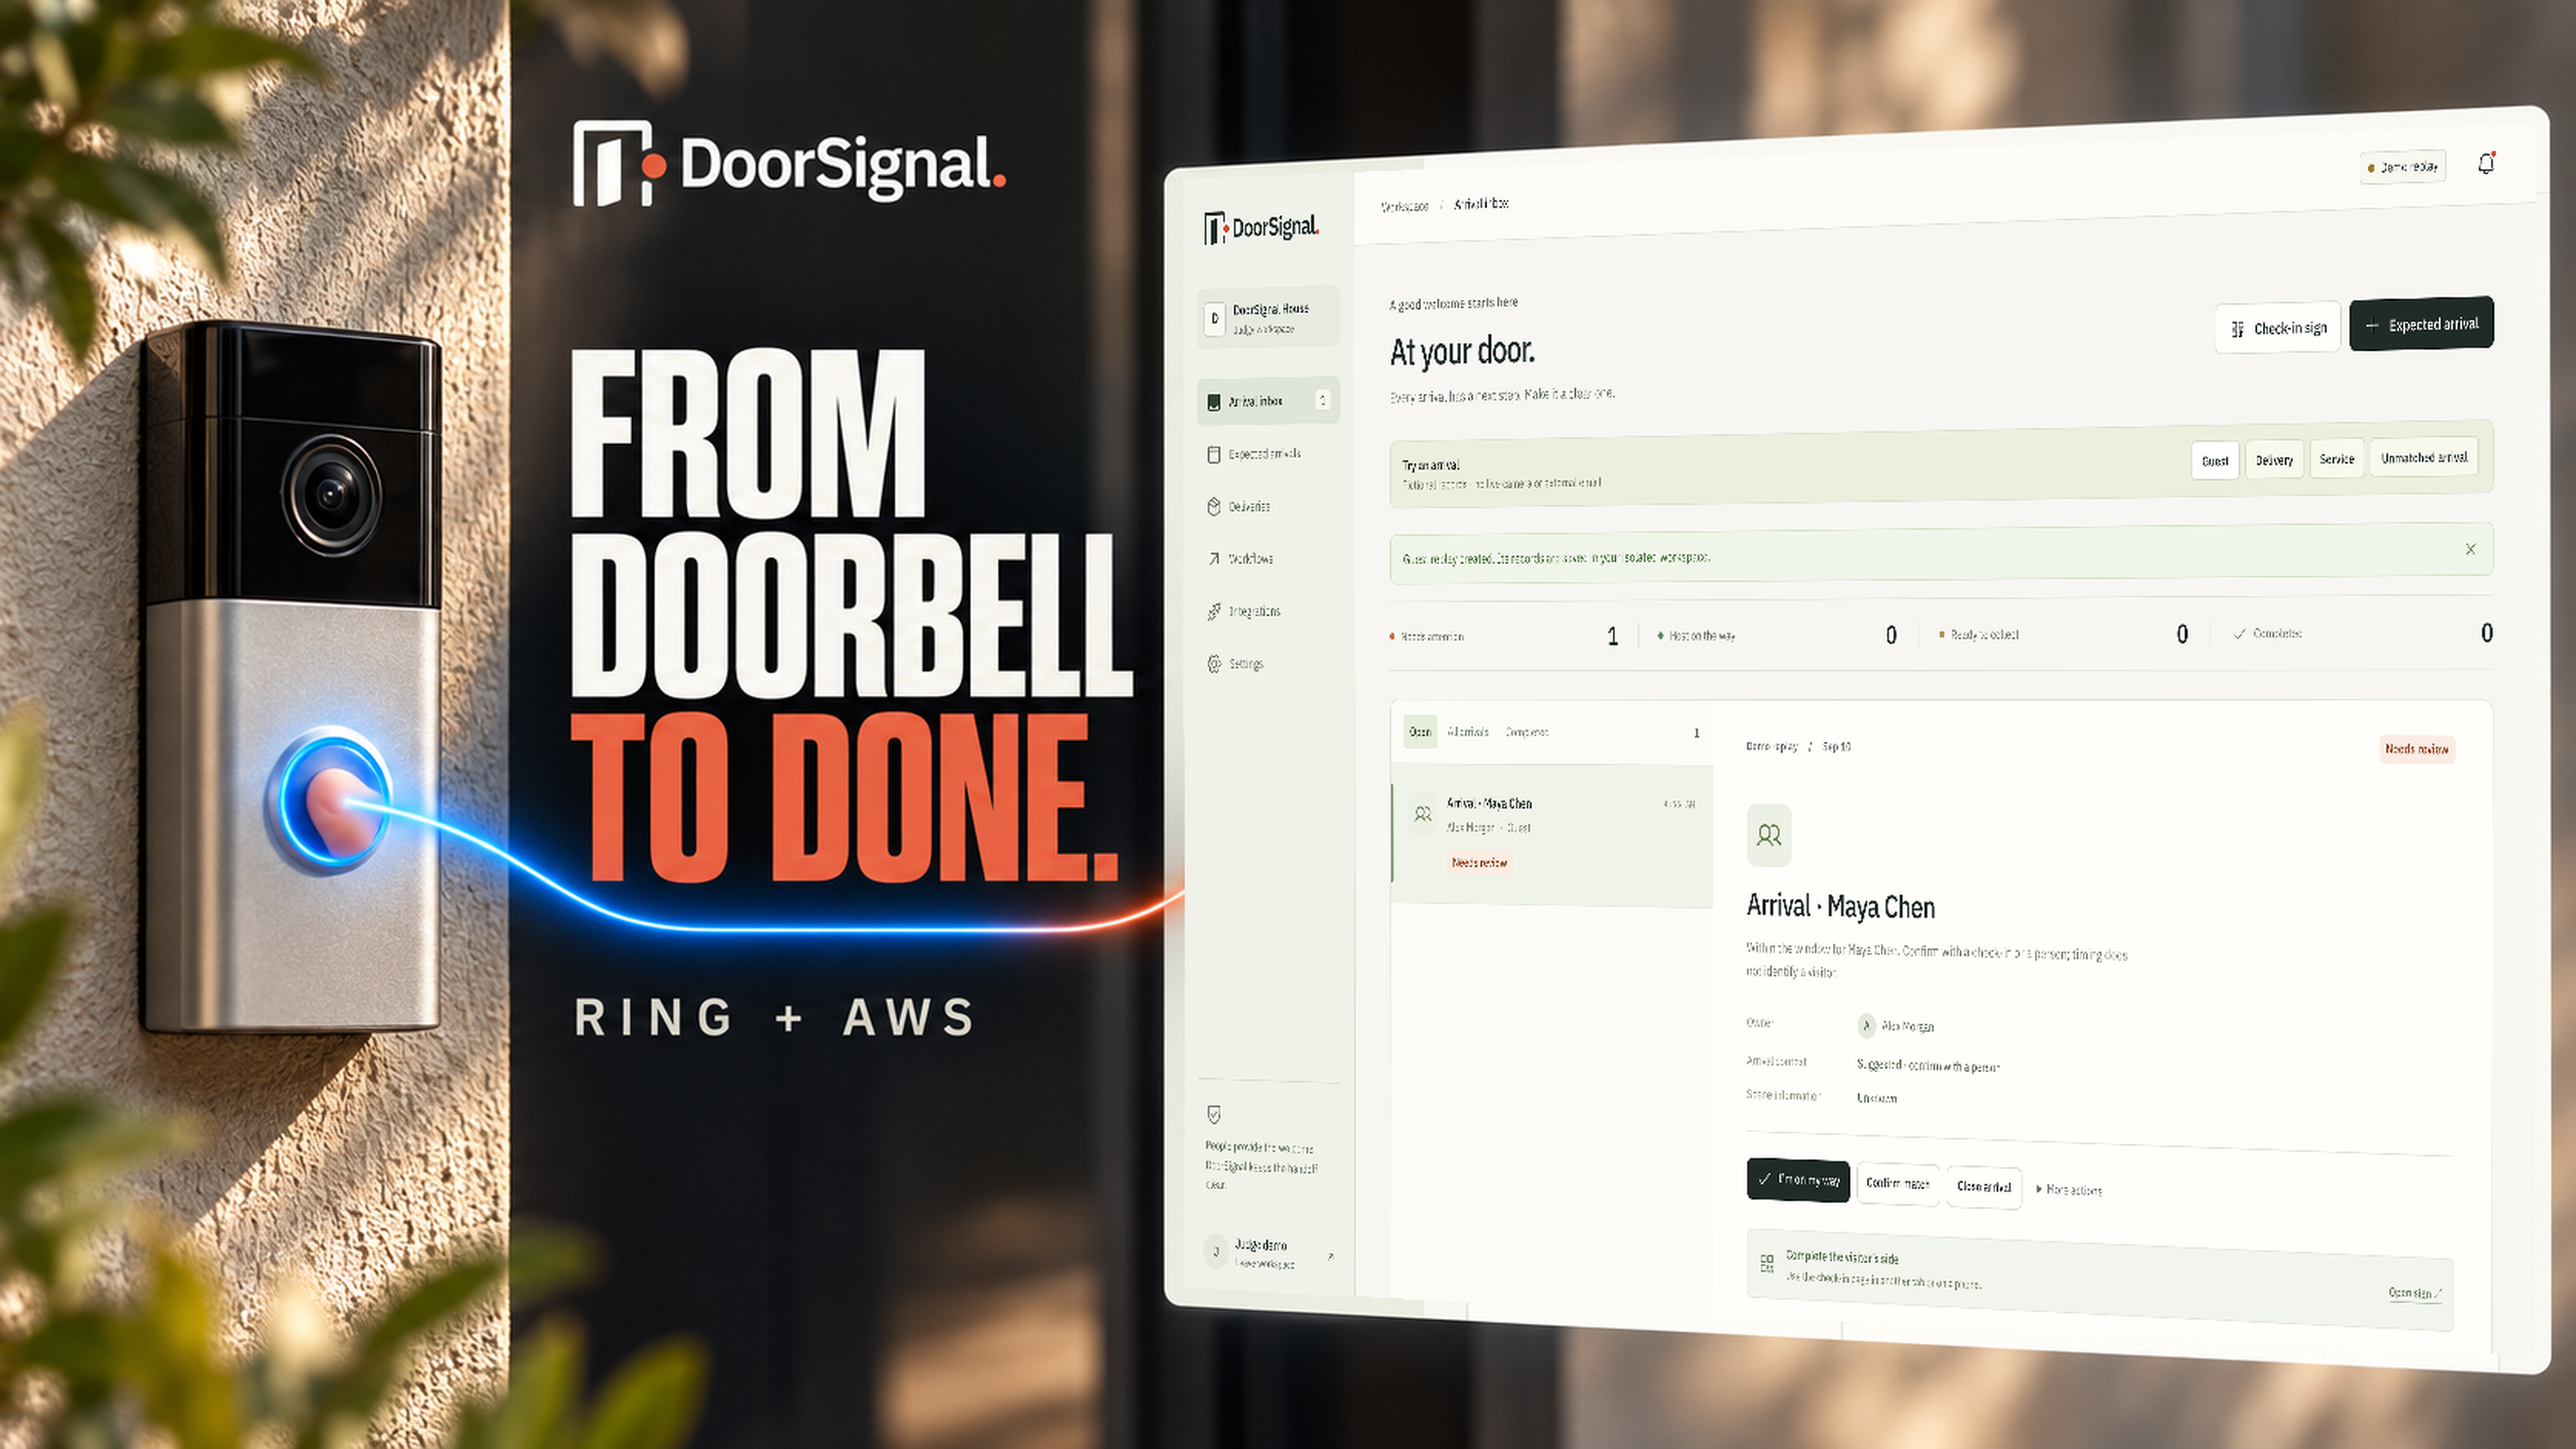
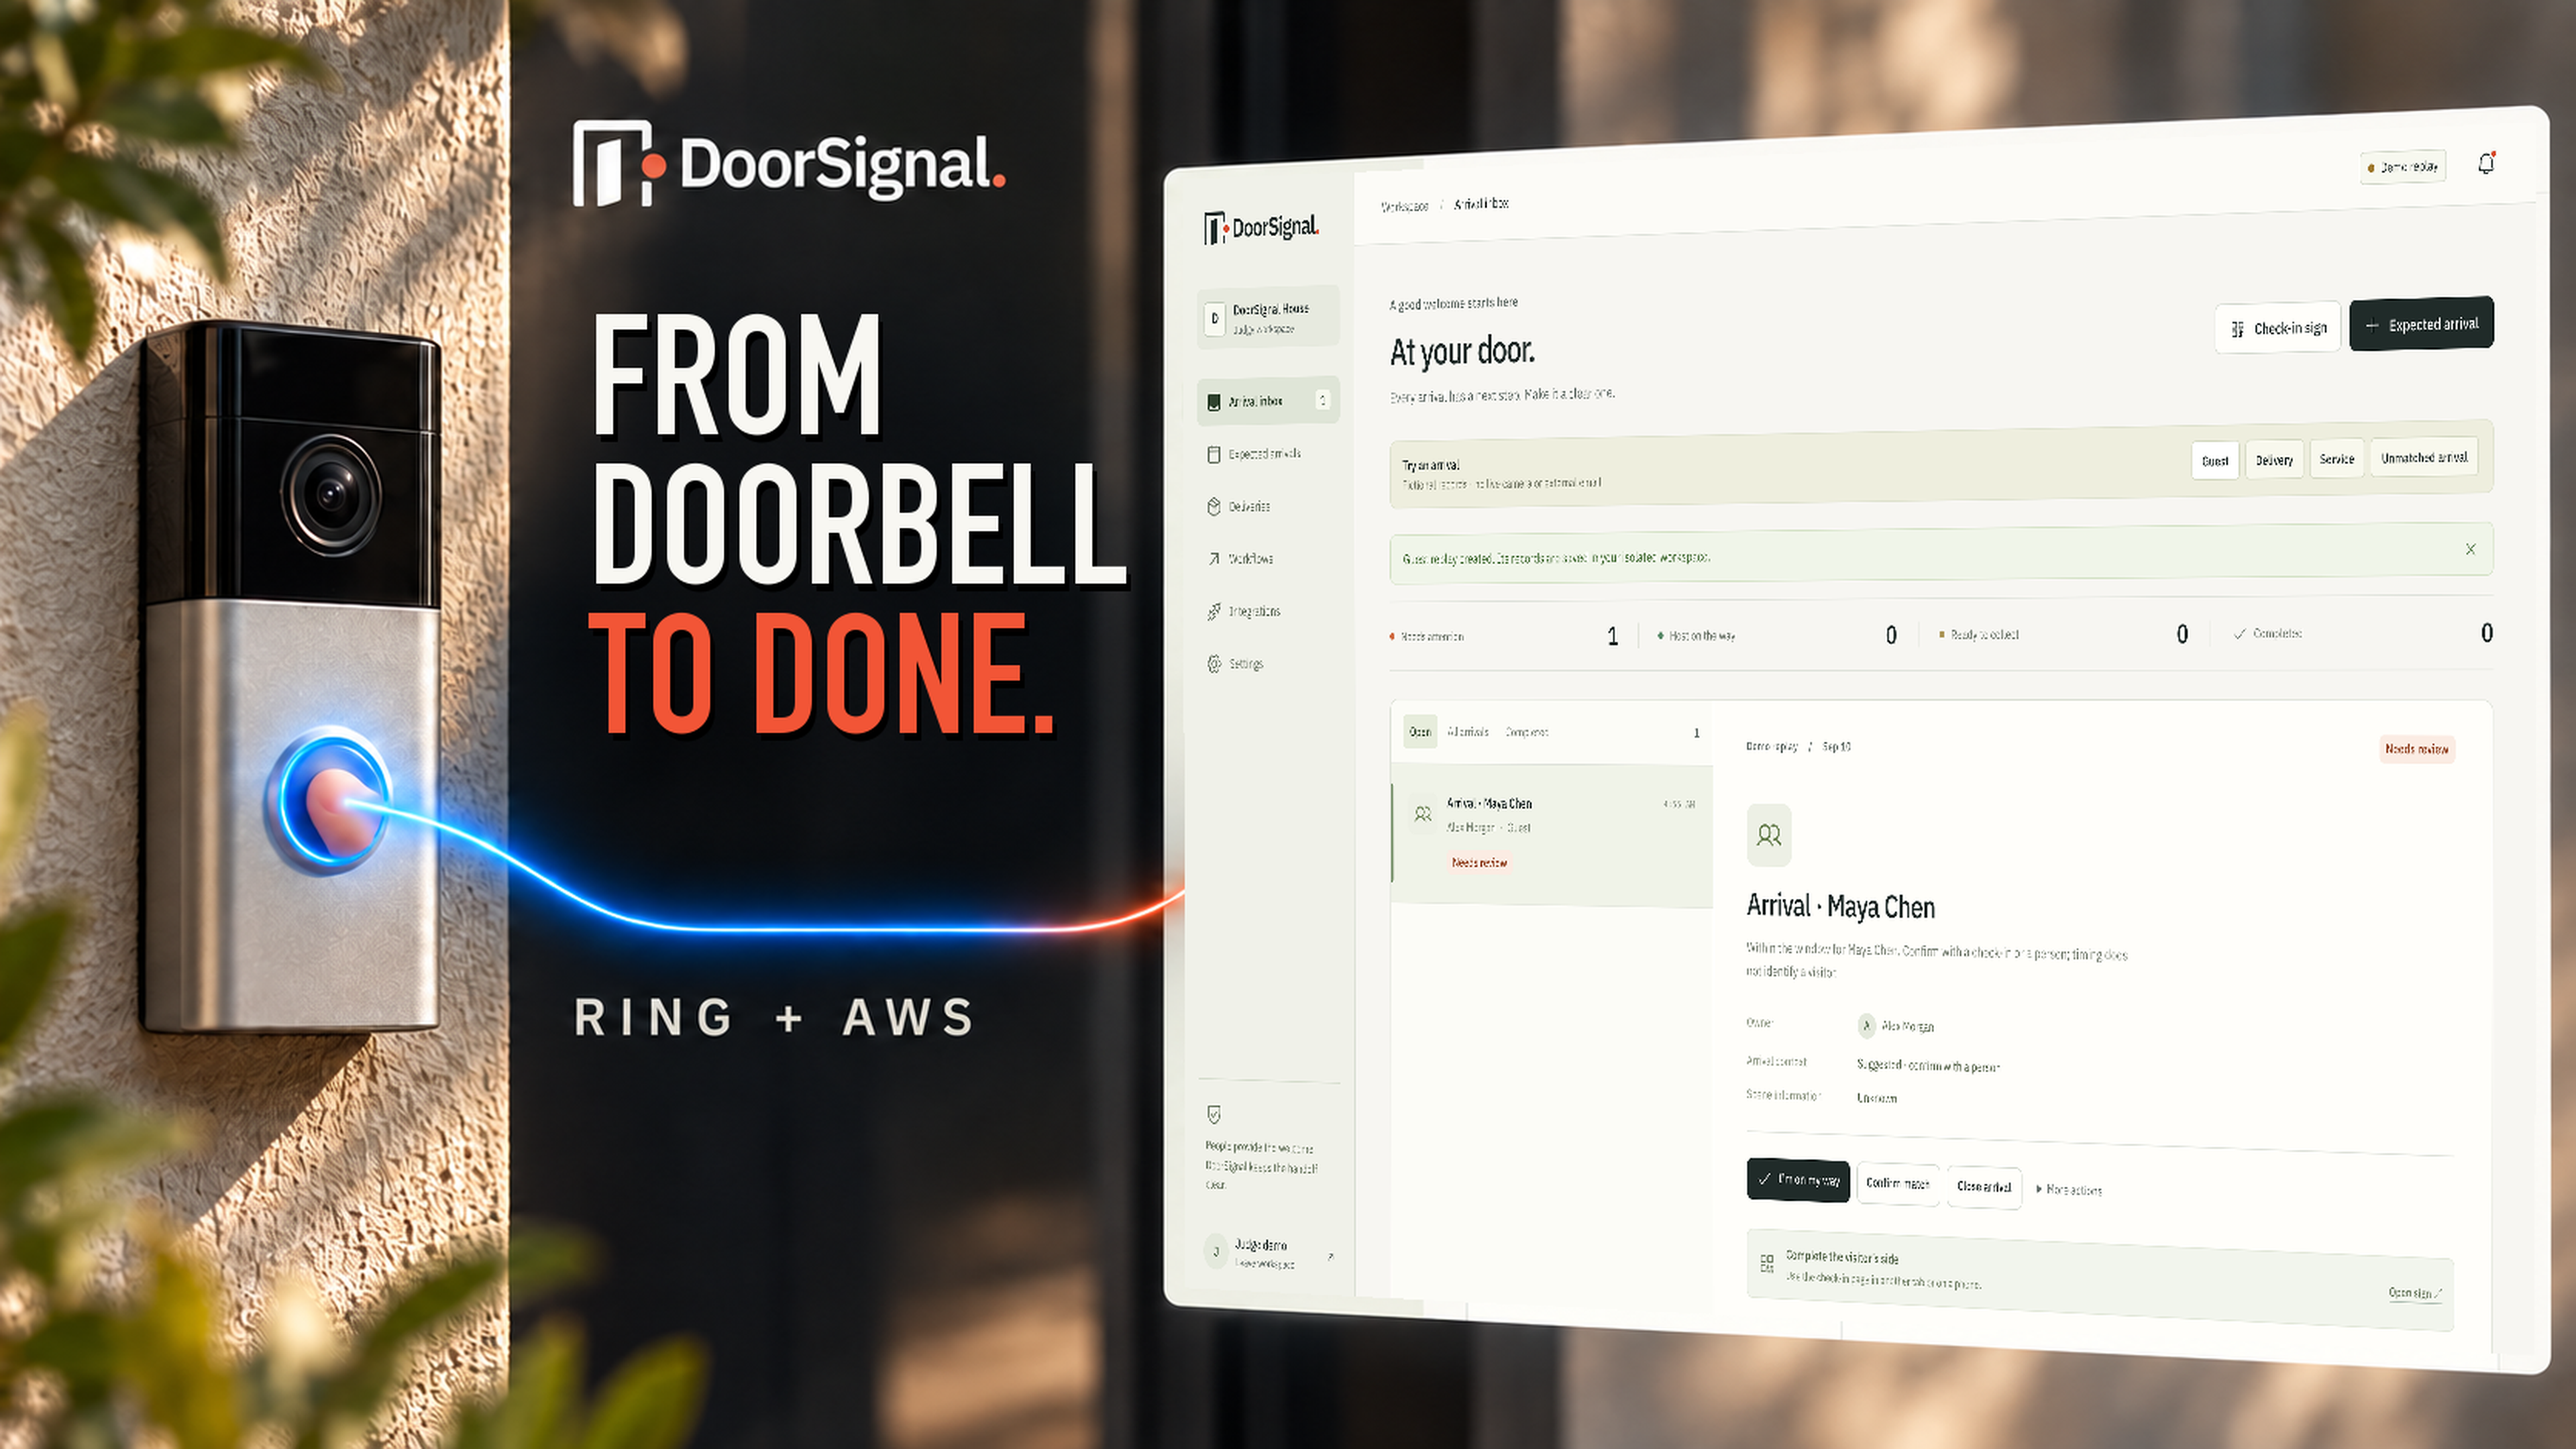
Refine Ring-centered submission artwork

diff --git a/scripts/compose_submission_images.py b/scripts/compose_submission_images.py
@@ -4,7 +4,7 @@
 from pathlib import Path
 
 import numpy as np
-from PIL import Image, ImageDraw
+from PIL import Image, ImageDraw, ImageFont
 
 
 ROOT = Path(__file__).resolve().parents[1]
@@ -24,7 +24,31 @@ def perspective_coefficients(destination, source):
     return np.linalg.solve(np.asarray(matrix, dtype=float), np.asarray(values, dtype=float))
 
 
-def replace_product_plane(key_art: Path, destination, output_size, png_path: Path, jpg_path: Path | None = None):
+def add_youtube_headline(canvas: Image.Image) -> None:
+    """Typeset the campaign line exactly; generated imagery must not render copy."""
+    draw = ImageDraw.Draw(canvas)
+    font = ImageFont.truetype(
+        "/System/Library/Fonts/Supplemental/DIN Condensed Bold.ttf", 108
+    )
+    x = 382
+    lines = [
+        ("FROM", 205, (248, 247, 242, 255)),
+        ("DOORBELL", 302, (248, 247, 242, 255)),
+        ("TO DONE.", 399, (242, 85, 54, 255)),
+    ]
+    for copy, y, color in lines:
+        draw.text((x + 3, y + 5), copy, font=font, fill=(0, 0, 0, 125))
+        draw.text((x, y), copy, font=font, fill=color)
+
+
+def replace_product_plane(
+    key_art: Path,
+    destination,
+    output_size,
+    png_path: Path,
+    jpg_path: Path | None = None,
+    add_headline: bool = False,
+):
     canvas = Image.open(key_art).convert("RGBA")
     screenshot = Image.open(SOURCE / "dashboard-desktop-1600x1000.png").convert("RGBA")
     sw, sh = screenshot.size
@@ -40,6 +64,9 @@ def replace_product_plane(key_art: Path, destination, output_size, png_path: Pat
     mask = Image.new("L", canvas.size, 0)
     ImageDraw.Draw(mask).polygon(destination, fill=255)
     canvas.alpha_composite(Image.composite(warped, Image.new("RGBA", canvas.size), mask))
+
+    if add_headline:
+        add_youtube_headline(canvas)
 
     final = canvas.convert("RGB").resize(output_size, Image.Resampling.LANCZOS)
     final.save(png_path, optimize=True)
@@ -60,4 +87,5 @@ replace_product_plane(
     (3840, 2160),
     OUT / "doorsignal-youtube-master-3840x2160.png",
     OUT / "doorsignal-youtube-upload-3840x2160.jpg",
+    add_headline=True,
 )

diff --git a/assets/submission/README.md b/assets/submission/README.md
@@ -11,13 +11,13 @@ The final graphics combine generated campaign key art with a real 1600 × 1000 c
 
 Run `scripts/compose_submission_images.py` with the bundled workspace Python runtime to reproduce the final layouts.
 
-These project-owned images were produced with OpenAI's internal image-generation model on September 10, 2026. The model created the two campaign scenes, including an original depiction of a modern Ring-style video doorbell; no third-party product photograph or stock asset was used. The final interface planes are composited from a direct capture of the deployed judge demo at `https://doorsignal.site/today`.
+These project-owned images were produced with OpenAI's internal image-generation model on September 10, 2026. The model created the two campaign scenes, including an original depiction of a modern Ring-style video doorbell; no third-party product photograph or stock asset was used. The final interface planes are composited from a direct capture of the deployed judge demo at `https://doorsignal.site/today`. The YouTube source was then edited to remove generated headline lettering, and the exact campaign line was typeset by the composition script.
 
 ## Deliverables
 
-- `doorsignal-devpost-1536x1024.png`: 1536 × 1024, 3:2, about 0.92 MB.
+- `doorsignal-devpost-1536x1024.png`: 1536 × 1024, 3:2, about 1.2 MB.
 - `doorsignal-youtube-master-3840x2160.png`: exact 3840 × 2160 master.
-- `doorsignal-youtube-upload-3840x2160.jpg`: exact 3840 × 2160 upload copy, progressive JPEG, about 0.89 MB.
+- `doorsignal-youtube-upload-3840x2160.jpg`: exact 3840 × 2160 upload copy, progressive JPEG, about 0.73 MB.
 
 ## Devpost prompt
 
@@ -27,4 +27,4 @@ These project-owned images were produced with OpenAI's internal image-generation
 
 > Create a striking 16:9 technology-campaign thumbnail showing a macro Ring-style doorbell press becoming an owned DoorSignal arrival. Use one blue-to-terracotta signal path, an oversized condensed headline, and the deployed dashboard filling the right half. Exact copy: `DoorSignal`, `FROM DOORBELL`, `TO DONE.`, `RING + AWS`. Keep the hardware plausible and the interface dominant. No laptop, phone, fake panels, reaction face, purple gradient, generic template, or random text.
 
-The final layouts are reproduced by `scripts/compose_submission_images.py`. It places the exact DoorSignal logo, typed copy, and real 1600 × 1000 browser capture over the generated backgrounds, then exports the requested dimensions. Source generations remain in `assets/submission/source/` and the Codex generated-image store.
+The final layouts are reproduced by `scripts/compose_submission_images.py`. It places the real 1600 × 1000 browser capture over the generated backgrounds, renders the YouTube headline with deterministic typography, and exports the requested dimensions. Source generations remain in `assets/submission/source/` and the Codex generated-image store.
